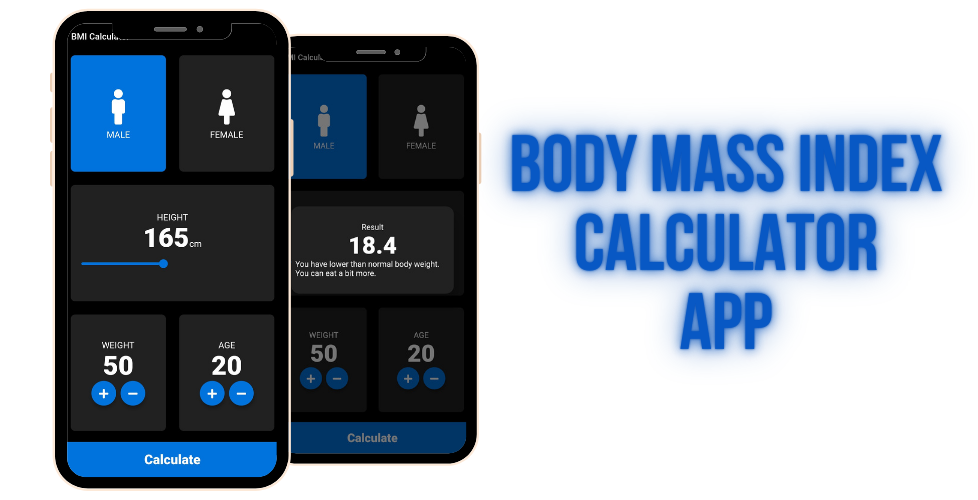
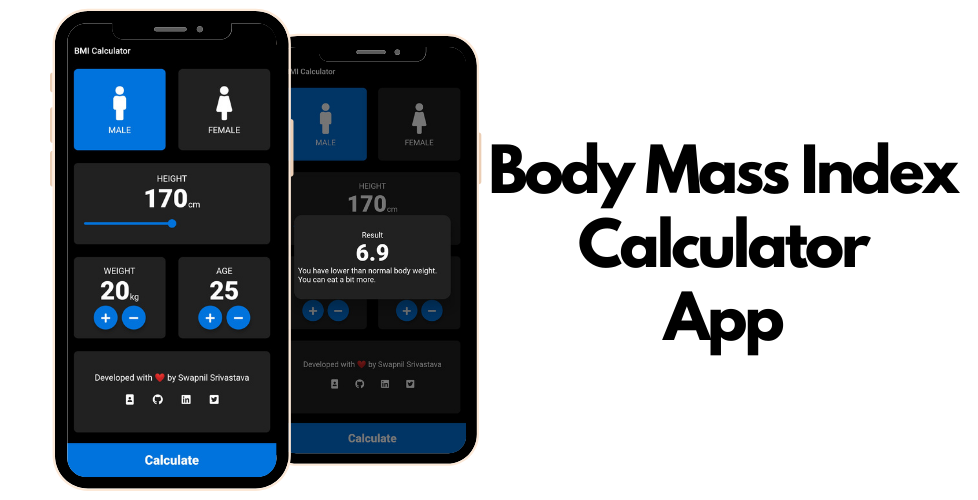
Version 2.00

diff --git a/lib/main_screen.dart b/lib/main_screen.dart
@@ -4,6 +4,7 @@ import 'package:flutter/material.dart';
 import 'package:font_awesome_flutter/font_awesome_flutter.dart';
 import 'container_box.dart';
 import 'data_container.dart';
+import 'package:url_launcher/url_launcher.dart';
 
 const activeColor = Color(0xff0073dd);
 const inActiveColor = Color(0xFF212121);
@@ -49,7 +50,7 @@ class _MainScreenState extends State<MainScreen> {
   }
 
   String getInterpretation(double bmi) {
-    if (bmi >= 25) {
+    if (bmi >= 25.0) {
       return 'You have higher than normal body weight. Try to excersie more.';
     } else if (bmi > 18.5) {
       return 'You have a normal body weight. Good Job!';
@@ -153,9 +154,20 @@ class _MainScreenState extends State<MainScreen> {
                         'WEIGHT',
                         style: textStyle1,
                       ),
-                      Text(
-                        weight.toString(),
-                        style: textStyle2,
+                      Row(
+                        mainAxisAlignment: MainAxisAlignment.center,
+                        crossAxisAlignment: CrossAxisAlignment.baseline,
+                        textBaseline: TextBaseline.alphabetic,
+                        children: <Widget>[
+                          Text(
+                            weight.toString(),
+                            style: textStyle2,
+                          ),
+                          Text(
+                            'kg',
+                            style: textStyle1,
+                          ),
+                        ],
                       ),
                       Row(
                         mainAxisAlignment: MainAxisAlignment.center,
@@ -211,7 +223,9 @@ class _MainScreenState extends State<MainScreen> {
                           FloatingActionButton(
                             onPressed: () {
                               setState(() {
-                                age++;
+                                if (age < 100) {
+                                  age++;
+                                }
                               });
                             },
                             backgroundColor: activeColor,
@@ -241,6 +255,74 @@ class _MainScreenState extends State<MainScreen> {
               ),
             ],
           )),
+          Expanded(
+            child: ContainerBox(
+              boxColor: inActiveColor,
+              childwidget: Column(
+                mainAxisAlignment: MainAxisAlignment.center,
+                children: <Widget>[
+                  Text(
+                    'Developed with ❤ by Swapnil Srivastava',
+                    style: textStyle1,
+                  ),
+                  SizedBox(
+                    height: 10.0,
+                  ),
+                  Row(
+                    mainAxisAlignment: MainAxisAlignment.center,
+                    children: <Widget>[
+                      FloatingActionButton(
+                        elevation: 0,
+                        onPressed: () {
+                          launch('https://swapnilsparsh.github.io');
+                        },
+                        backgroundColor: inActiveColor,
+                        child: Icon(FontAwesomeIcons.portrait,
+                            color: Colors.white),
+                      ),
+                      SizedBox(
+                        width: 10.0,
+                      ),
+                      FloatingActionButton(
+                        elevation: 0,
+                        onPressed: () {
+                          launch('https://github.com/swapnilsparsh');
+                        },
+                        backgroundColor: inActiveColor,
+                        child:
+                            Icon(FontAwesomeIcons.github, color: Colors.white),
+                      ),
+                      SizedBox(
+                        width: 10.0,
+                      ),
+                      FloatingActionButton(
+                        elevation: 0,
+                        onPressed: () {
+                          launch(
+                              'https://www.linkedin.com/in/swapnil-srivastava-sparsh/');
+                        },
+                        backgroundColor: inActiveColor,
+                        child: Icon(FontAwesomeIcons.linkedin,
+                            color: Colors.white),
+                      ),
+                      SizedBox(
+                        width: 10.0,
+                      ),
+                      FloatingActionButton(
+                        elevation: 0,
+                        onPressed: () {
+                          launch('https://twitter.com/swapnilsparsh');
+                        },
+                        backgroundColor: inActiveColor,
+                        child: Icon(FontAwesomeIcons.twitterSquare,
+                            color: Colors.white),
+                      ),
+                    ],
+                  ),
+                ],
+              ),
+            ),
+          ),
           GestureDetector(
               onTap: () {
                 setState(() {
